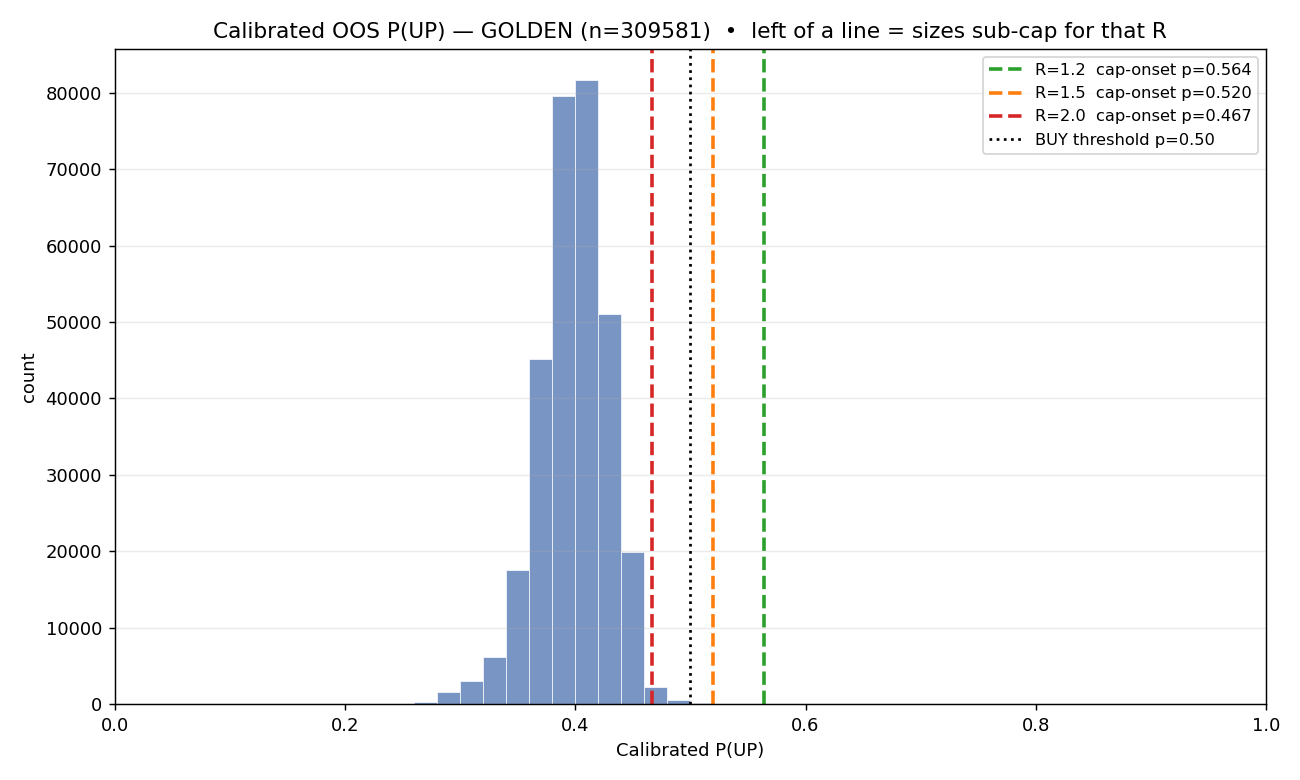
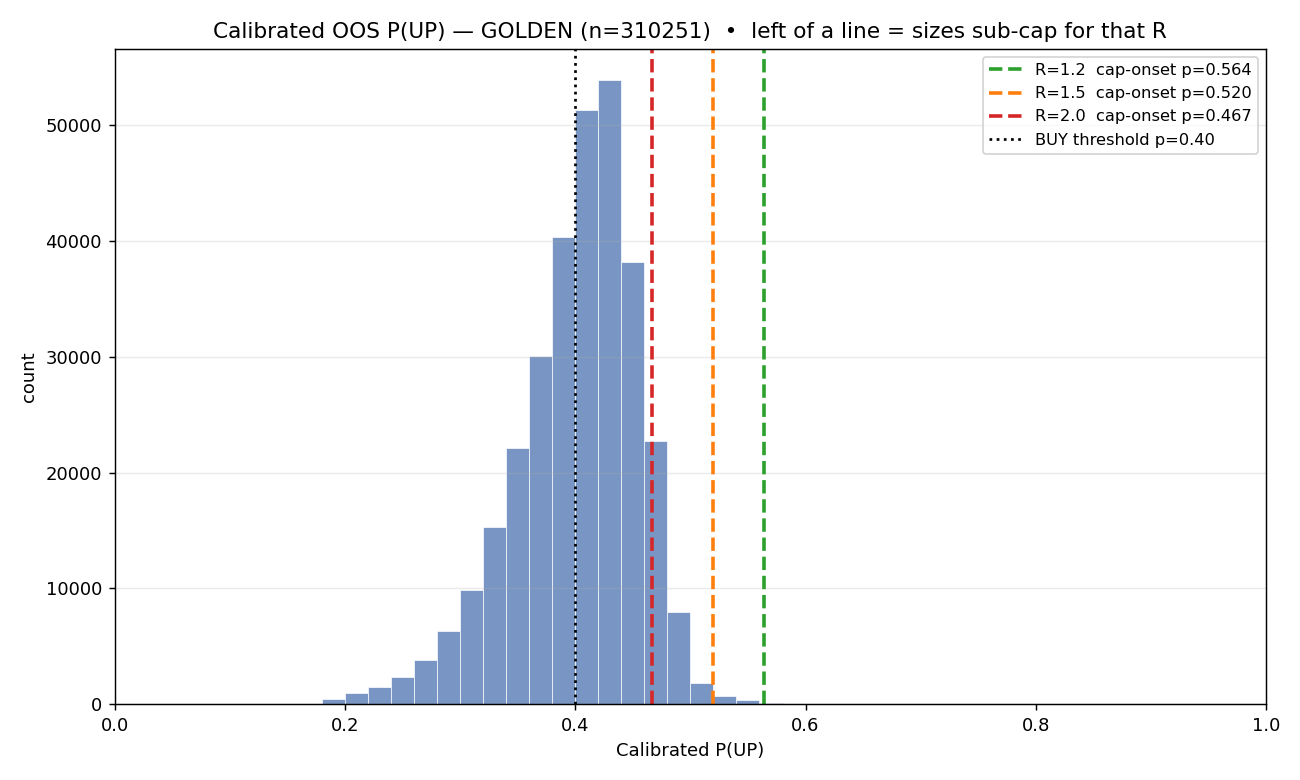
feat(models): retrained T+5 and T+20 serve models (24-06-26)
Recipe v2-sha8:53b5bd85 (macro-GBM OFF, macro-HMM ON), 4 seeds.
Paper-only: DSR fail (T20 SR=0.73, T5 SR=0.66 < hurdle 0.948).
Add SESSION_HANDOFF.md for cross-session continuity.

diff --git a/SESSION_HANDOFF.md b/SESSION_HANDOFF.md
@@ -1,0 +1,39 @@
+# SESSION HANDOFF — 2026-06-24 (Quant Engine V4)
+
+## STATE NOW
+- Branch **`main`** @ `cba1254`. `feat/macro-integration` merged in (same tip).
+- UNCOMMITTED (tracked, M): `models/saved/v3_ensemble_{5d,20d}.joblib` + `prob_distribution.png` = **retrained 24/06**. Deleted (D, not mine, leave): `AUDIT_REPORT/CONTEXT_DUMP/GEMINI/QODER.md`.
+- Graph stale (built on feat/macro, now main) → `code-review-graph build` to rebuild.
+
+## DONE THIS SESSION (committed to main)
+- **Macro-Integration program COMPLETE** (`62447b1`→`cba1254`):
+  - P1 `src/data/macro_crawler.py` → `data/macro_daily.parquet` (yfinance `^GSPC`/`DX-Y.NYB`/`VND=X`; vnstock CANT do global macro). `--task crawl_macro` + `full_pipeline` step1b.
+  - P2 macro→regime HMM N-D (`src/models/macro_risk_hmm.py::build_regime_observation`; `use_macro_in_hmm` default ON). **KEPT** (more risk-aware; serve-safe = HMM is backtest-only, main.py serve doesnt apply p_bull).
+  - P3 macro→GBM features flagged `use_macro_features` default **OFF**; `effective_recipe_version(False)` BYTE-IDENTICAL to baseline `v2-sha8:53b5bd85`.
+  - P4 A/B → **KILL GBM-macro** (DD −13→−18.5%, PBO 43→87%, gain = seed noise, DSR no improve). report `process/features/macro-integration/reports/macro-ab-result_23-06-26.md`.
+- **Paperlog temporal flaw FIXED** (`d6652e8`): progressive backfill, short scan gate 4d (`_PAPERLOG_SHORT_MATURE_DAYS`), T+3 no longer starves to 21; `tests/test_sentiment_paperlog.py` 12. audit `doc/audit_paperlog_temporal_flaw.md`.
+- **Structural-Debt program CLOSED OUT** (`d9cbd51`): Phase1-3 done, +95 hub tests. ⚠ Phase3 commit `194525f` was ORPHANED mid-session (reset) — VERIFY the 4 test files actually on main.
+- **Dashboard P2 live-render gate CLOSED** (`0491db6`): `tests/test_dashboard_app_smoke.py` AppTest, streamlit 1.58.
+- **stock_price_old/ untracked** (`1a939e5`): 1.5GB legacy, `git rm --cached` (on disk, gitignored). `.git` history still holds blobs → `git filter-repo` for real reclaim.
+- **Serve models RETRAINED 24/06** (T+5 + T+20): recipe `v2-sha8:53b5bd85`, macro-GBM OFF + macro-HMM ON, 4 seeds. **PAPER-ONLY** (DSR fail: T20 SR0.73 / T5 SR0.66 < hurdle 0.948; PBO T20 36% T5 75%). Old → `models/saved/backups/`.
+
+## NEXT / OPEN
+- **RESTART `run_bot.py`** → load new models (caches at load; live bot on OLD until restart).
+- Commit retrained models? (tracked binaries M) — user call.
+- `v3_ensemble_3d.joblib` (13-06, old T+3) unused (serve=T5) → deletable.
+- Scratch `models/saved/ab_{baseline,macro}.joblib` (~26MB A/B) → deletable.
+- VERIFY orphaned `194525f` hub tests on main: `tests/test_{vn_cost_model,triple_barrier,tabular_ensemble,run_backtest_wiring}.py`.
+
+## ENV GOTCHAS (CRITICAL)
+- git-bash BROKEN → **PowerShell only**.
+- python = `C:\Users\caokh\AppData\Local\Programs\Python\Python311\python.exe` (polars/ML+pytest). conda env has NO polars. **nested `powershell -File` grabs WRONG conda python** → always explicit path.
+- long bg jobs **DIE on laptop sleep** (Balanced) → wake-lock `SetThreadExecutionState([uint32]2147483649)` + keep plugged/awake.
+- code-review-graph post-commit hook → cp1252 `UnicodeEncodeError` = **COSMETIC, commit succeeds**.
+- subagents only Bash (broken) → CANT run python/train; **ORCHESTRATOR runs+commits**.
+- prefix heavy runs: `$env:PYTHONIOENCODING="utf-8"`.
+
+## KEY CMDS
+- tests: `python -m pytest -q`
+- retrain H+save serve: `python train_models.py --tb-horizon H --out models/saved/ckpt.joblib` then `python run_backtest.py --checkpoint models/saved/ckpt.joblib` → writes `v3_ensemble_Hd.joblib` (backs up old). `--use-macro-features`=macro arm; `--no-save --sweep-thresholds X`=pure eval.
+- macro crawl: `python main.py --task crawl_macro`
+- live EOD (broadcasts!): `python main.py --task full_pipeline --force-crawl --days-back 1`